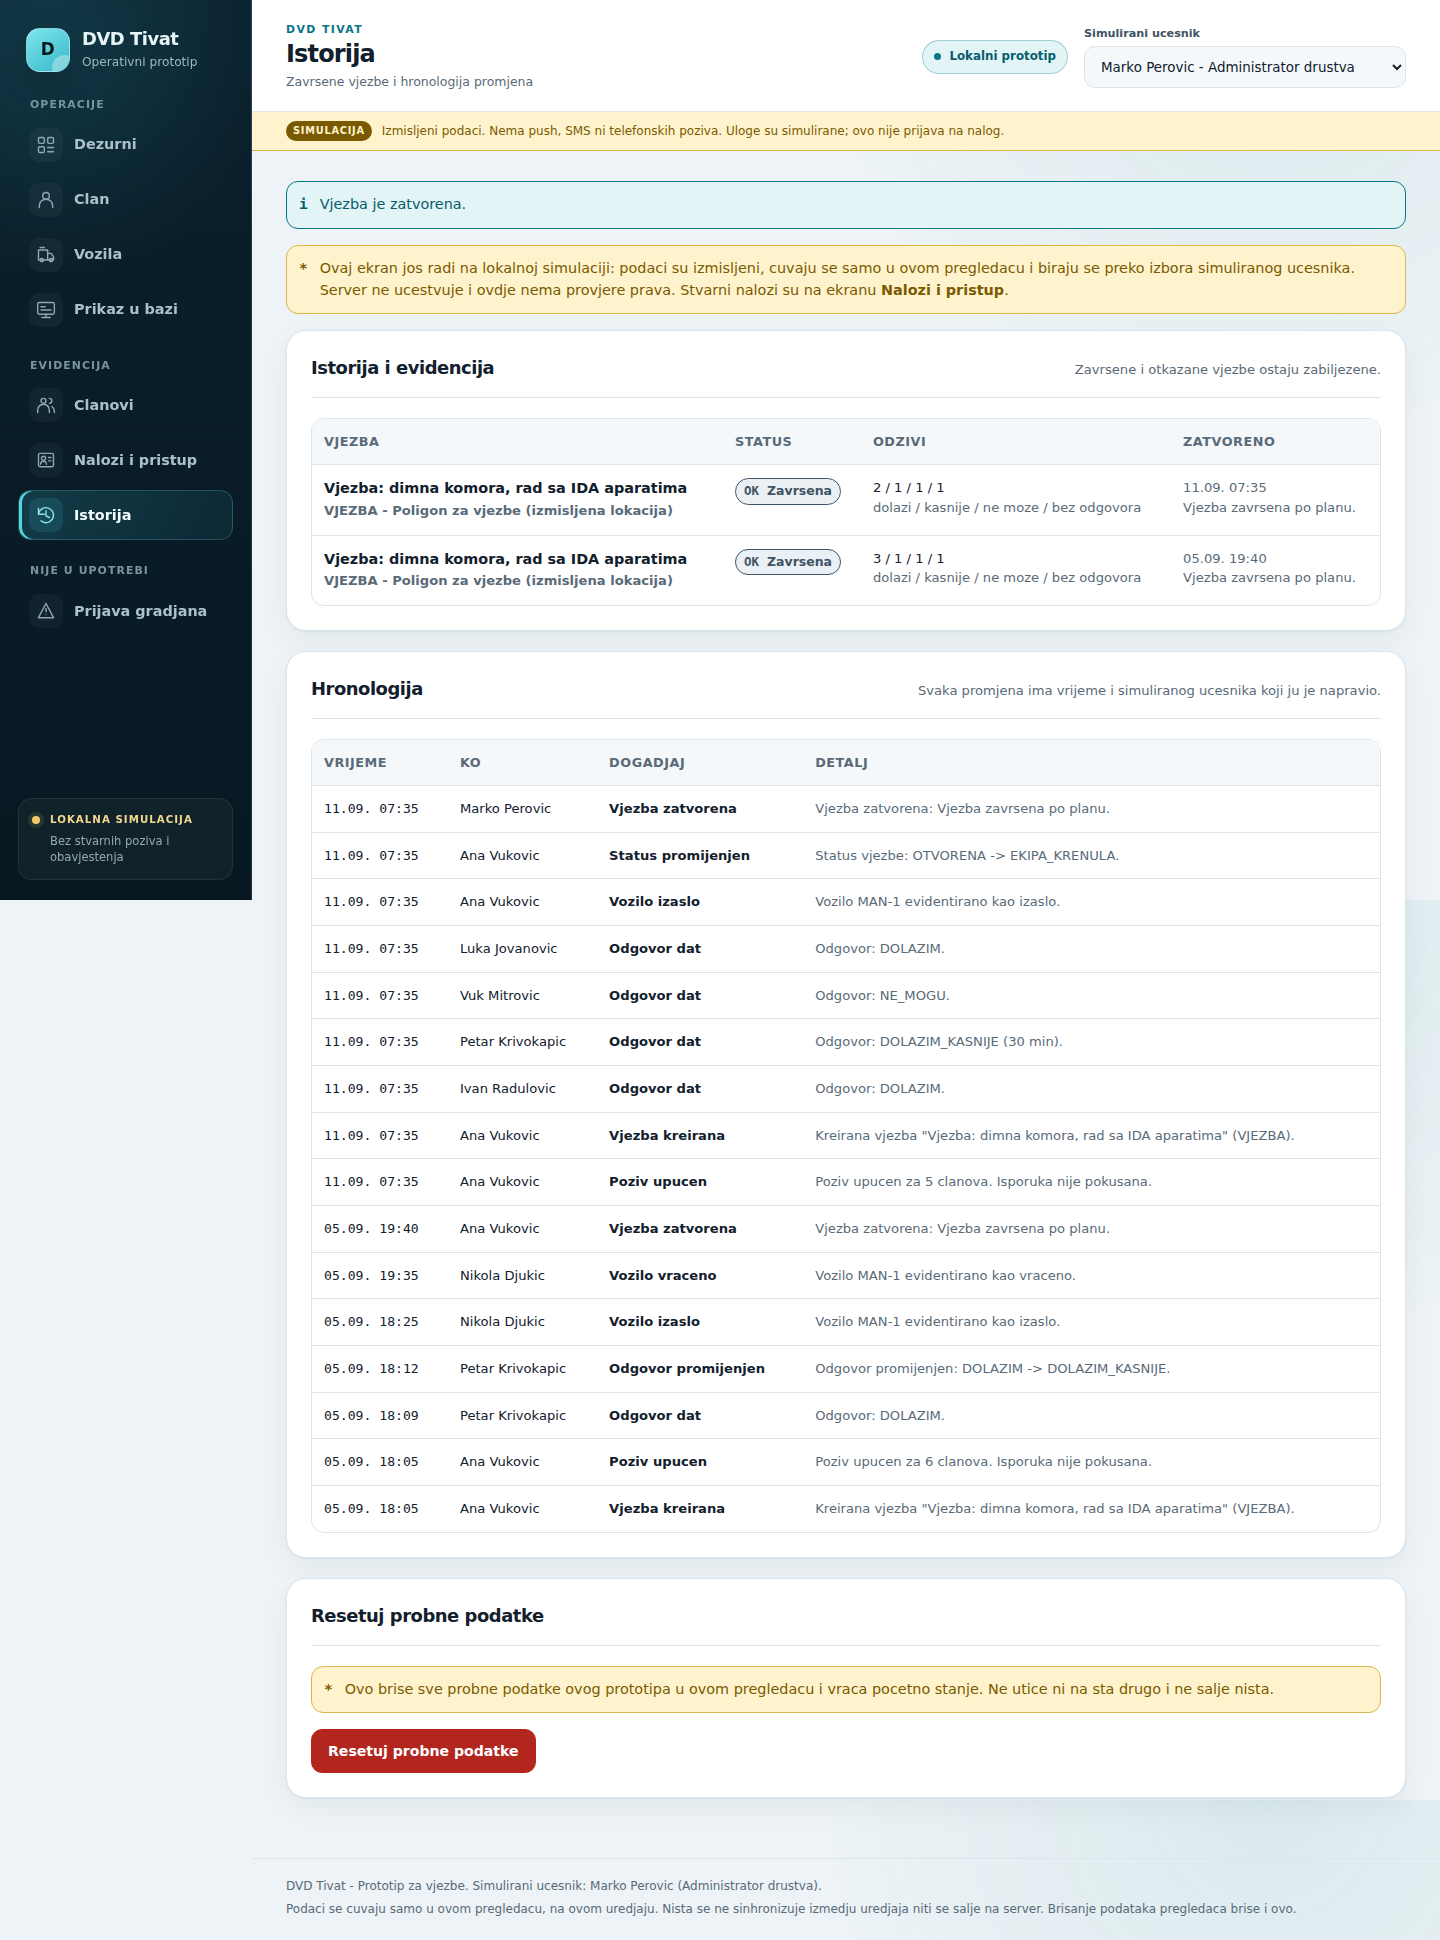
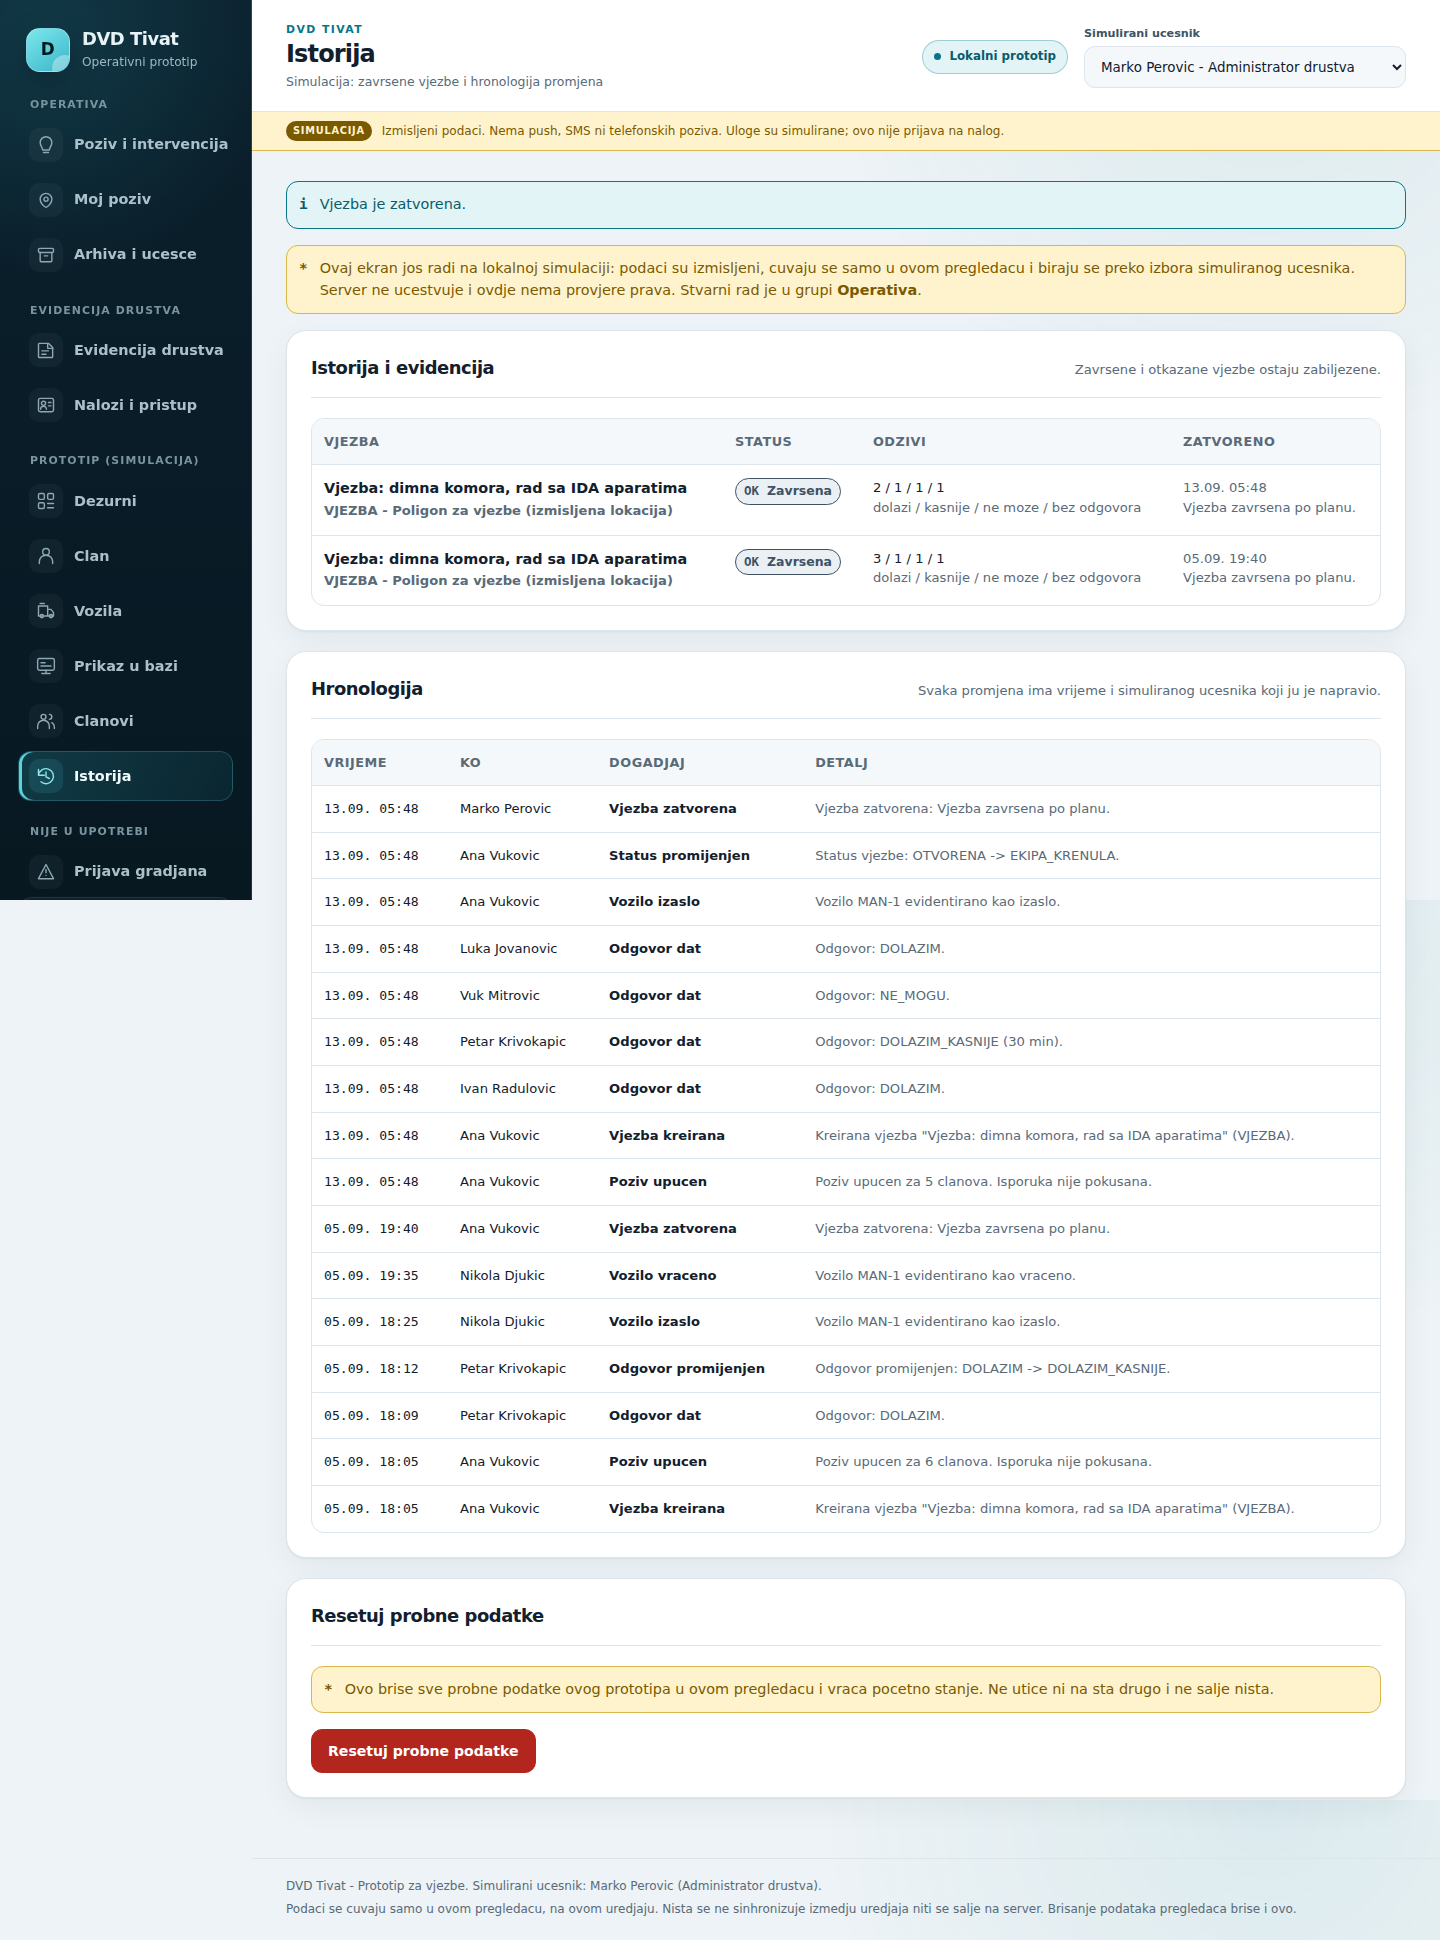
Separate two attendance counts the commander screen conflated
The headline read "Prijavljeno prisustvo: 0" while the table underneath
showed a member with an attendance record awaiting confirmation. Both
were correct and the screen contradicted itself: the number counted who
is on the task RIGHT NOW, and a closed interval is not that.

It is now two numbers with two names. "Trenutno na zadatku" is who is
checked in and not yet checked out; "Prijavilo prisustvo" is how many
members have a record at all. Neither is participation - that is
confirmed, closed time, and it lives on the attendance board.

Also captures the three operational screens for the documentation, from
the fixture build, and gives the fixture account the name of the member
it is linked to so the identity pill cannot contradict the roster on the
same screen.

Claude-Session: https://claude.ai/code/session_01RQBcnBwKoSZU8NsR5ytEuJ

diff --git a/e2e/fixture-server.ts b/e2e/fixture-server.ts
@@ -101,7 +101,9 @@ const TABLES: Record<string, unknown[]> = {
   ],
   groups: [{ id: '77777777-7777-4777-8777-777777777777', name: 'Prva smjena', active: true }],
   group_members: [{ group_id: '77777777-7777-4777-8777-777777777777', member_id: MEMBER_ID }],
-  profiles: [{ user_id: USER_ID, email: 'komandir@example.invalid', full_name: 'Komandir Smjene', profile_complete: true }],
+  // The signed-in account is linked to Ivo, so the identity pill must say
+  // Ivo - not a second name that contradicts the roster on the same screen.
+  profiles: [{ user_id: USER_ID, email: 'ivo@example.invalid', full_name: 'Ivo Vatrogasac', profile_complete: true }],
 };
 
 const RPC: Record<string, unknown> = {
@@ -154,7 +156,7 @@ export async function installFixtureProject(page: Page, role: FixtureRole = 'COM
     }
 
     if (path.startsWith('/auth/v1/user')) {
-      return json(route, { id: USER_ID, email: 'komandir@example.invalid', aud: 'authenticated' });
+      return json(route, { id: USER_ID, email: 'ivo@example.invalid', aud: 'authenticated' });
     }
     if (path.startsWith('/auth/v1/')) {
       return json(route, {
@@ -162,7 +164,7 @@ export async function installFixtureProject(page: Page, role: FixtureRole = 'COM
         token_type: 'bearer',
         expires_in: 3600,
         refresh_token: 'fixture',
-        user: { id: USER_ID, email: 'komandir@example.invalid' },
+        user: { id: USER_ID, email: 'ivo@example.invalid' },
       });
     }
 
@@ -208,7 +210,7 @@ export async function installFixtureProject(page: Page, role: FixtureRole = 'COM
         expires_at: Math.floor(Date.now() / 1000) + 3600,
         expires_in: 3600,
         refresh_token: 'fixture',
-        user: { id: userId, email: 'komandir@example.invalid', aud: 'authenticated', app_metadata: {}, user_metadata: {} },
+        user: { id: userId, email: 'ivo@example.invalid', aud: 'authenticated', app_metadata: {}, user_metadata: {} },
       };
       window.localStorage.setItem(`sb-${ref}-auth-token`, JSON.stringify(session));
     },

diff --git a/e2e/screenshots.spec.ts b/e2e/screenshots.spec.ts
@@ -8,6 +8,7 @@
 
 import { expect, test, type Page } from '@playwright/test';
 import { createCall, goTo, openApp, switchActor } from './helpers';
+import { openOperational } from './fixture-server';
 
 const DIR = 'docs/screenshots';
 
@@ -132,5 +133,37 @@ test.describe('screenshots', { tag: '@screenshots' }, () => {
     await page.getByLabel(/^Opis/).fill('Gust dim se vidi iza izmisljene zgrade.');
     await page.getByLabel(/^Mjesto dogadjaja/).fill('Izmisljeni orijentir kod obale');
     await capture(page, '12-prijava-gradjana-telefon.png');
+  });
+});
+
+/**
+ * The server-backed screens, captured from the fixture build.
+ *
+ * These are the screens the product is actually about, and they cannot be
+ * captured from the ordinary build: with no project configured they all stop at
+ * the gate. The fixture answers for a project that does not exist, so the data
+ * in these images is invented in exactly the same way the rest is.
+ */
+test.describe('screenshots', { tag: '@screenshots' }, () => {
+  test('captures the operational screens', async ({ page }) => {
+    await openOperational(page, 'poziv');
+    await expect(page.getByRole('heading', { name: /Vjezba: provjera opreme/ })).toBeVisible();
+    await capture(page, '08-poziv-intervencija.png');
+
+    await page.getByRole('tab', { name: 'Pregled' }).click();
+    await expect(page.getByTestId('overview-table')).toBeVisible();
+    await capture(page, '09-pregled-odziva.png');
+
+    await page.getByRole('tab', { name: 'Prisustvo' }).click();
+    await expect(page.getByTestId('pick-all-pending')).toBeVisible();
+    await capture(page, '10-prisustvo-potvrda.png');
+
+    await openOperational(page, 'mobilizacija', 'FIREFIGHTER');
+    await expect(page.getByTestId('callout-title')).toBeVisible();
+    await capture(page, '11-moj-poziv.png');
+
+    await openOperational(page, 'arhiva');
+    await expect(page.getByTestId('archive-title')).toBeVisible();
+    await capture(page, '12-arhiva-ucesce.png');
   });
 });

diff --git a/src/ui/views/CommandView.tsx b/src/ui/views/CommandView.tsx
@@ -750,7 +750,13 @@ function OverviewTab({
     (r) => r.answer === 'DOLAZIM' || r.answer === 'DOLAZIM_KASNIJE',
   ).length;
   const onScene = data.recipients.filter((r) => r.journey === 'NA_LICU_MJESTA').length;
-  const present = data.attendance.filter((a) => a.endedAt === null && a.rejectedAt === null).length;
+  // Still on the task right now: checked in and not yet checked out. NOT the
+  // number of people who have reported attendance - a closed interval counts
+  // towards the record and not towards who is standing on the ground.
+  const onTask = data.attendance.filter((a) => a.endedAt === null && a.rejectedAt === null).length;
+  const reported = new Set(
+    data.attendance.filter((a) => a.rejectedAt === null).map((a) => a.memberId),
+  ).size;
   const vehiclesOut = data.movements.filter(
     (m) => m.returnedAt === null && m.interventionId === selected.id,
   ).length;
@@ -769,7 +775,8 @@ function OverviewTab({
           <Count label="Odgovorilo" value={answered} testId="count-answered" />
           <Count label="Dolazi" value={coming} testId="count-coming" />
           <Count label="Na licu mjesta (izjava)" value={onScene} testId="count-onscene" />
-          <Count label="Prijavljeno prisustvo" value={present} testId="count-present" />
+          <Count label="Trenutno na zadatku" value={onTask} testId="count-present" />
+          <Count label="Prijavilo prisustvo" value={reported} testId="count-reported" />
           <Count label="Vozila na terenu" value={vehiclesOut} testId="count-vehicles" />
         </div>
       </section>
